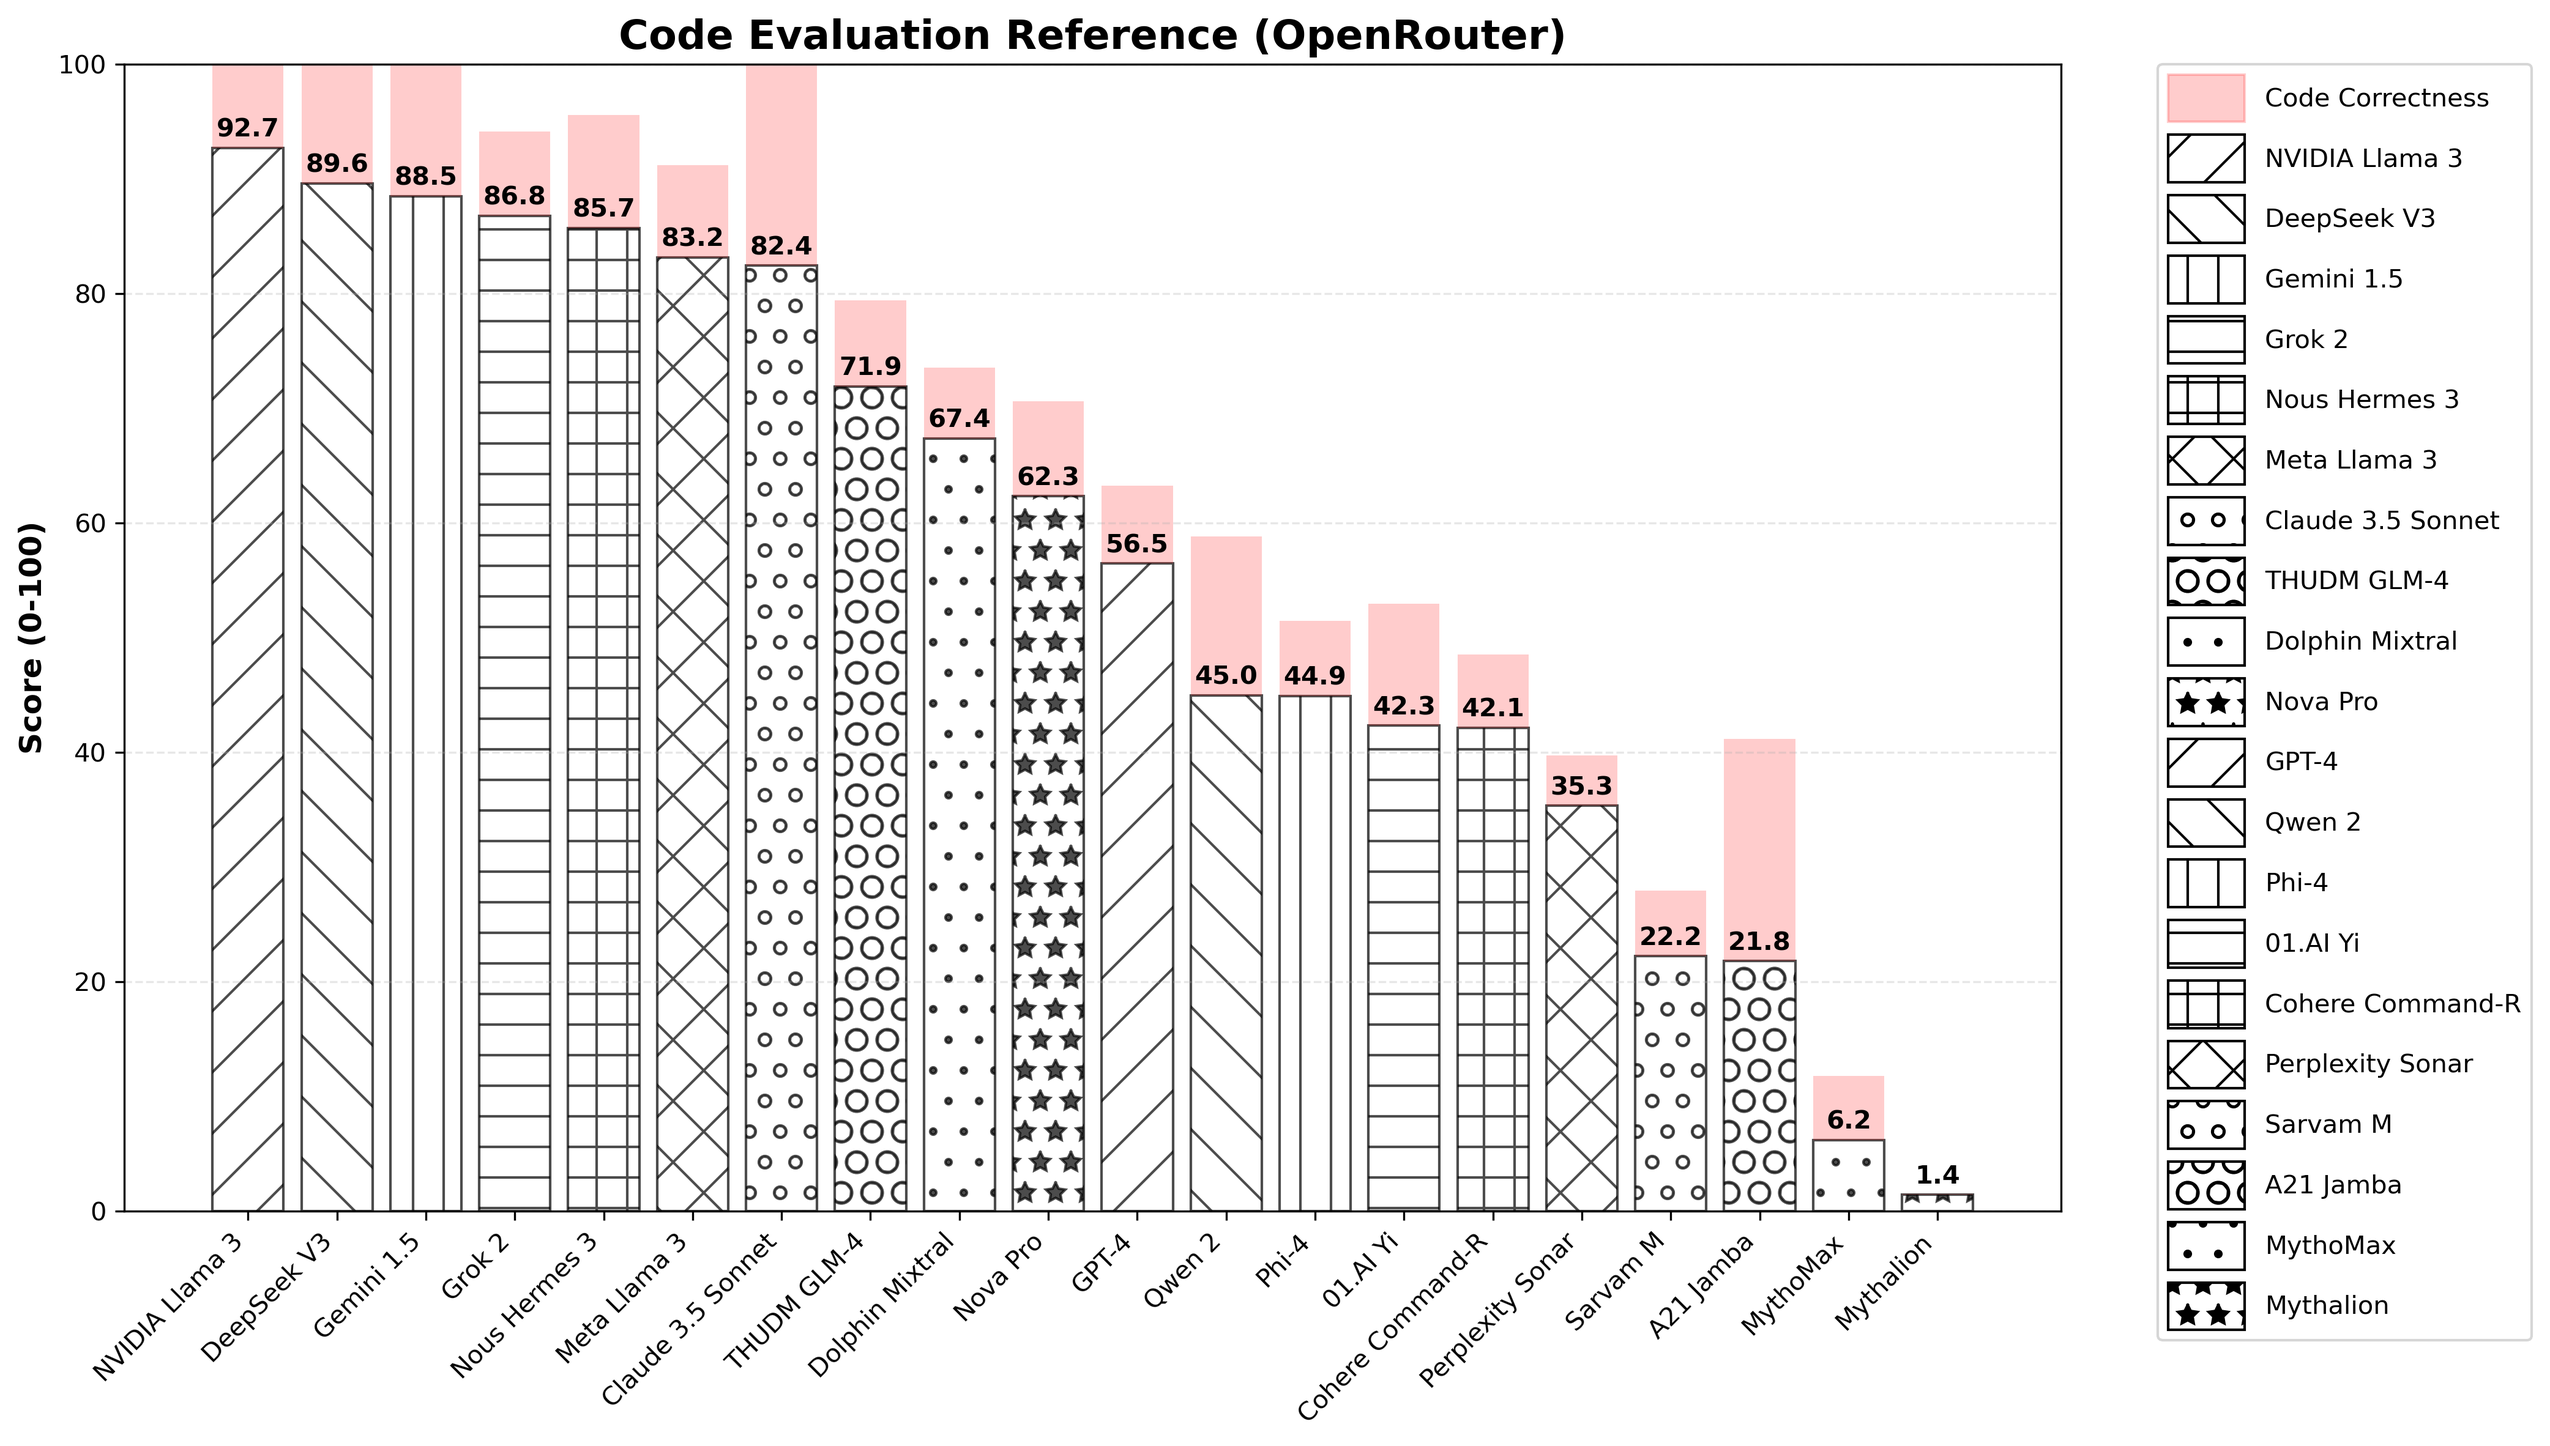
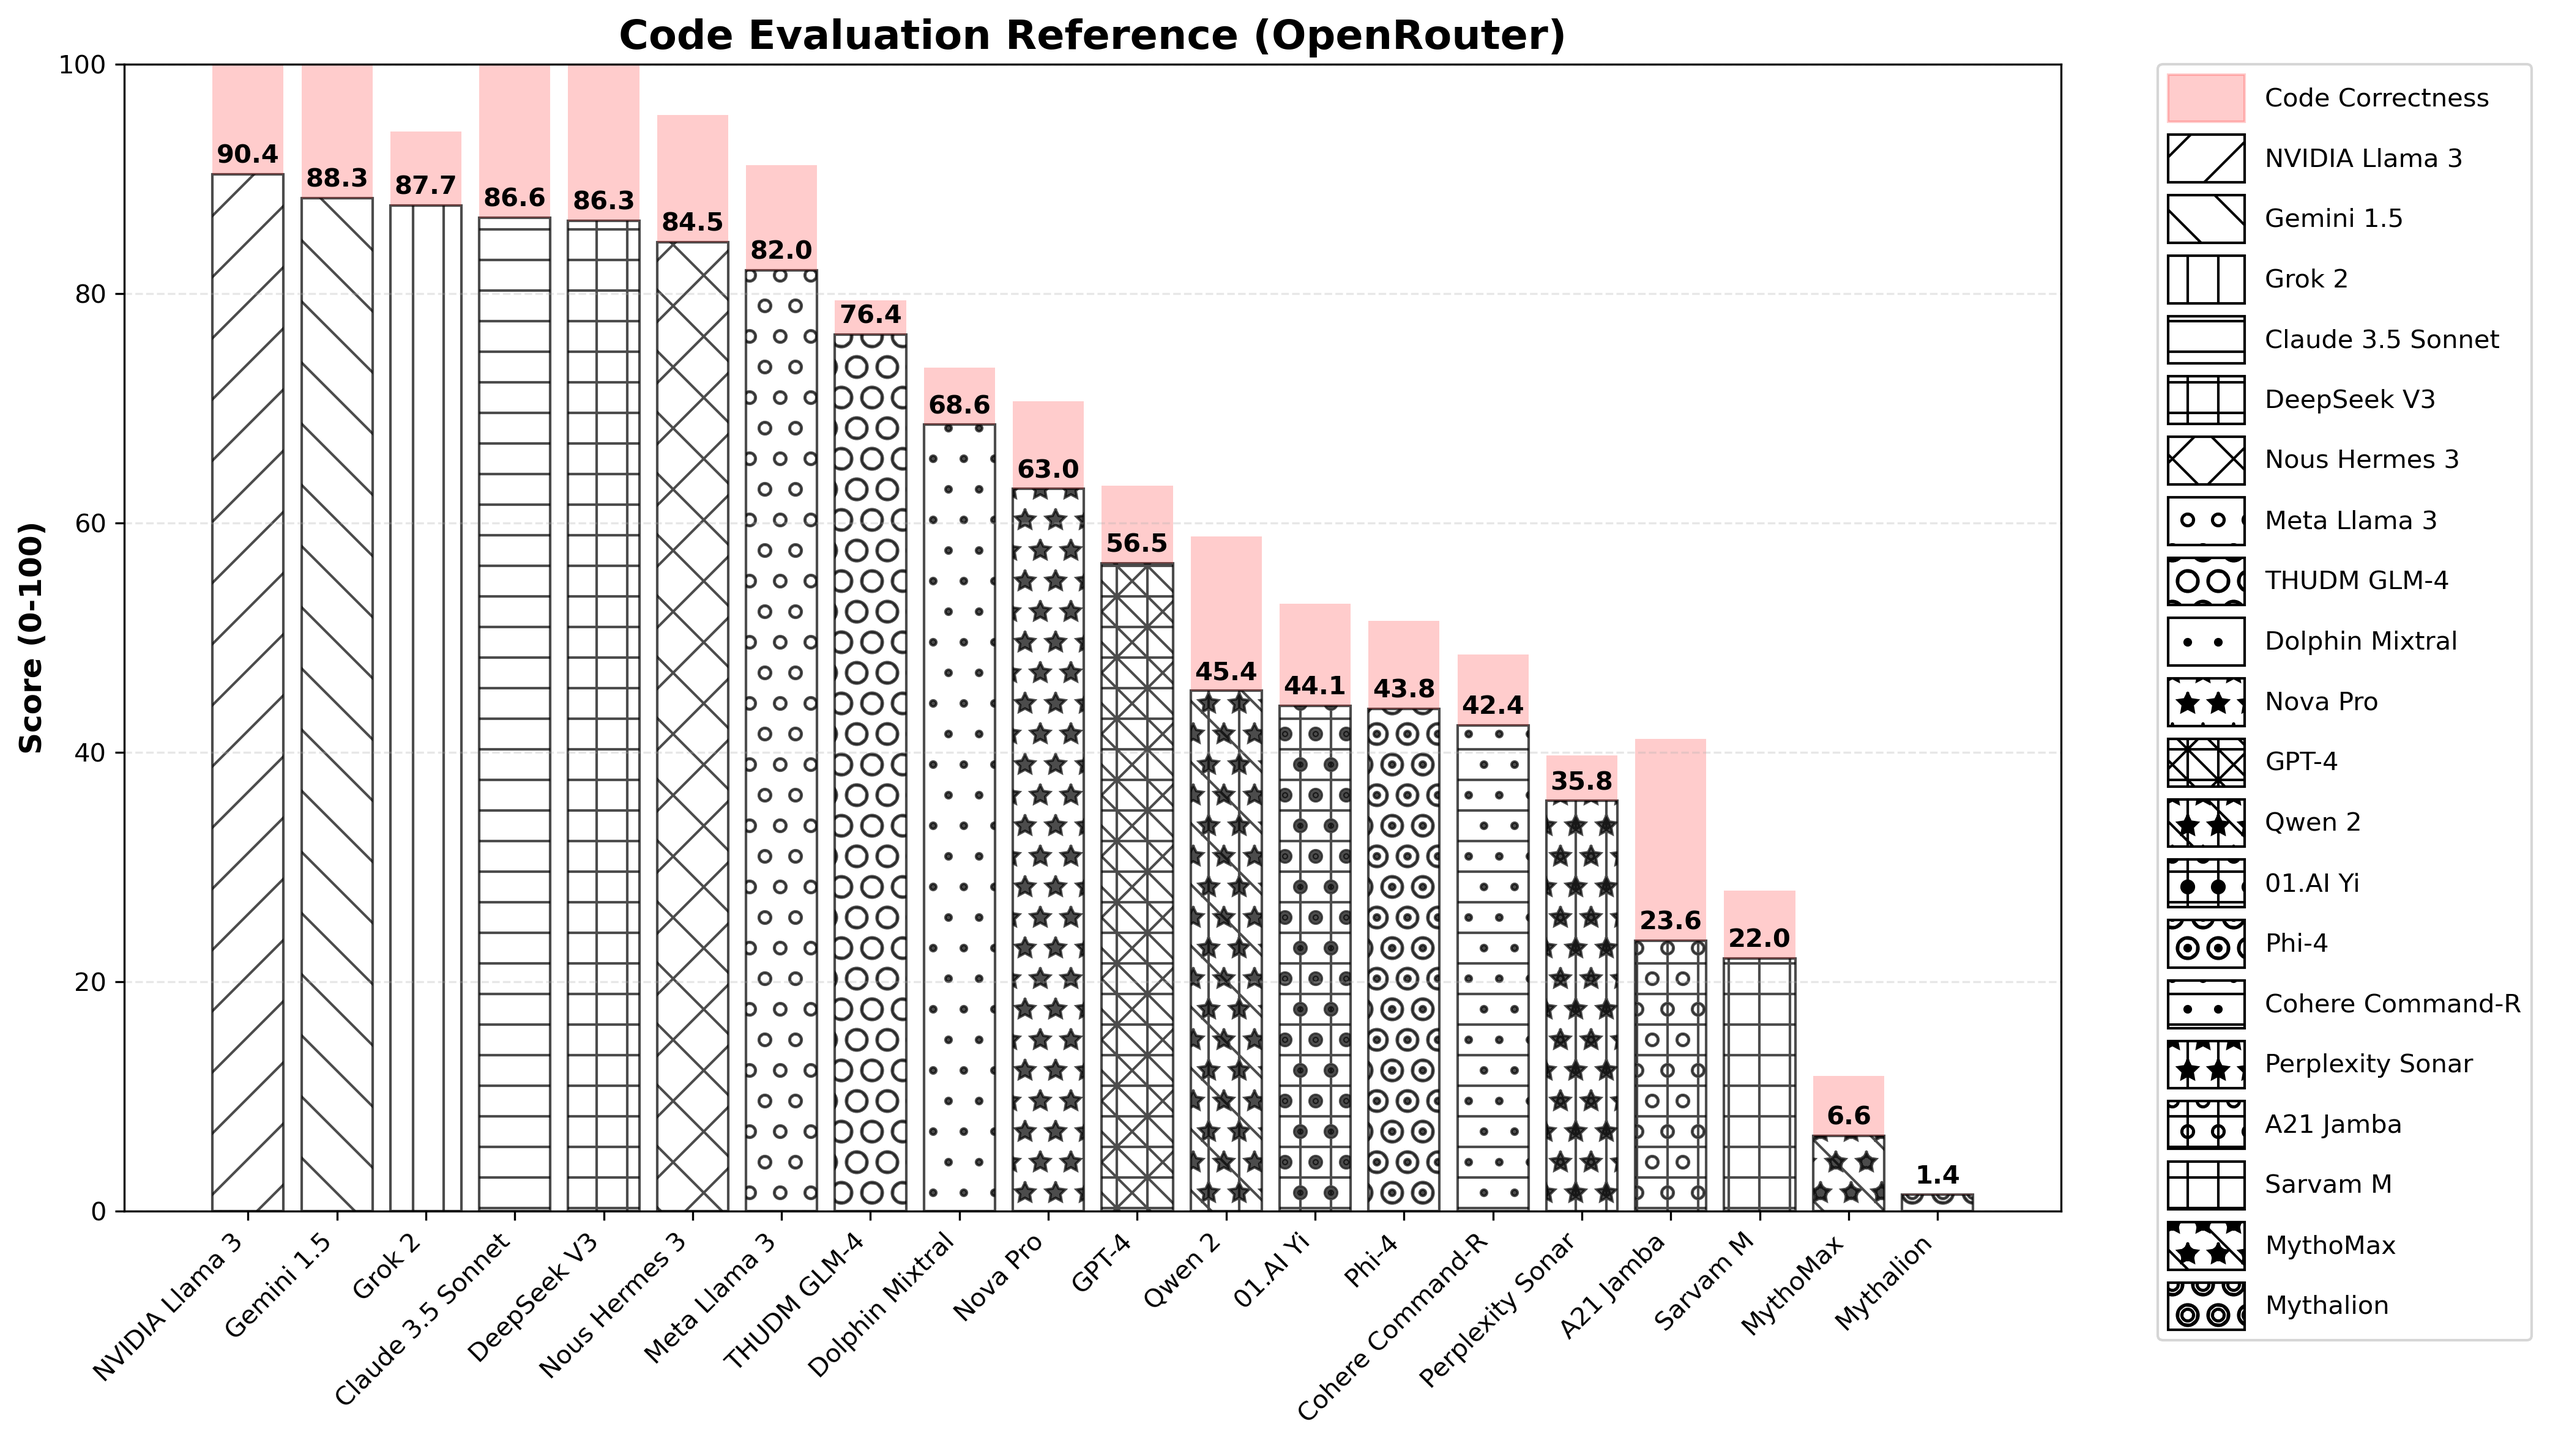
more matplotlib patterns

diff --git a/generate_plot.py b/generate_plot.py
@@ -178,7 +178,9 @@ def create_plot(scores, raw_scores):
         # Create stacked bars for general LLMs
         penalty_values = [max(0, raw - adj) for raw, adj in zip(general_raw_values, adjusted_values)]
         
-        patterns = ['/', '\\', '|', '-', '+', 'x', 'o', 'O', '.', '*']
+        patterns = ['/', '\\', '|', '-', '+', 'x', 'o', 'O', '.', '*',
+ '\\+x', '\\|*', '+o.', 'O.', '-.', '|.*', '|-o', '|-', '\\o*', 'oO',
+ '/\\', '/xO', '\\o.', '/+O', '\\-.', '-xo', 'oO.', '/-+', '\\|.', '|o']
         bars_adjusted = []
         bars_penalty = []
         legend_handles = []
